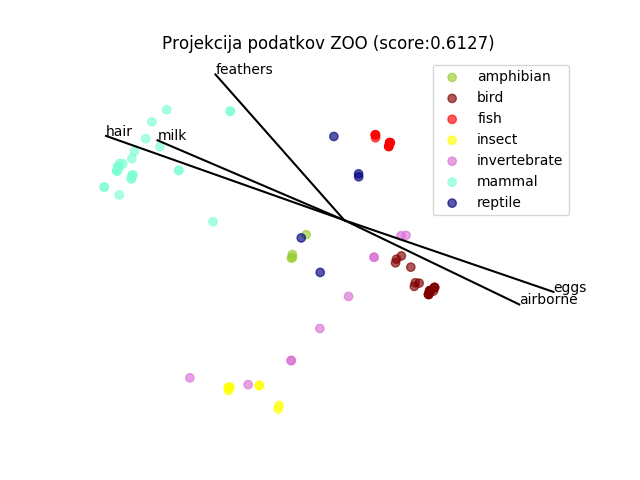
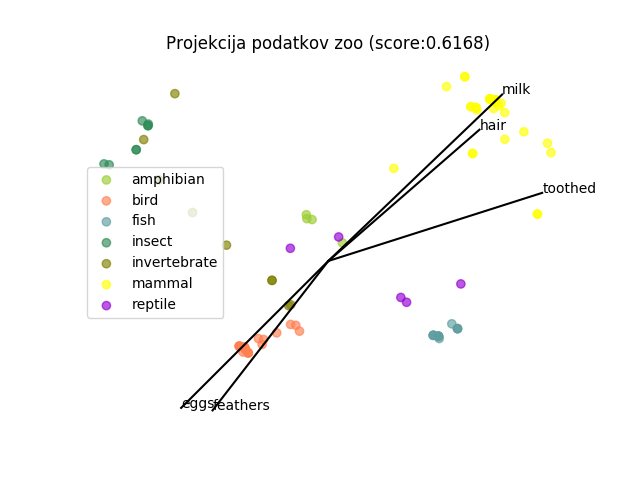
[DN04] Fixed vector names bug

diff --git a/DN04/freeviz.py b/DN04/freeviz.py
@@ -92,7 +92,7 @@ def freeviz(X, y, maxiter=100):
 
         # check convergence
         print('--> sum(G): ', diff)
-        if diff < 0.003:
+        if diff < 0.003 and iter > 400:
             print('Converged at iteration: ', iter)
             convergence = True
         else:
@@ -160,7 +160,7 @@ def plot(X, Y, A, classnames=None, attributes=None, max_attr=5, title=None):
             if i < max_attr:
                 idx = vecs_idx[i]
                 plt.plot([0, A[idx, 0]], [0, A[idx, 1]], 'k-')
-                plt.text(A[idx, 0], A[idx, 1], a)
+                plt.text(A[idx, 0], A[idx, 1], attributes[idx])
 
     ax.legend()
     ax.grid(False)
@@ -199,7 +199,7 @@ def evaluate_projection(P, y):
 if __name__ == '__main__':
     import Orange
 
-    name = 'zoo'
+    name = 'mnist-1k'
     data = Orange.data.Table(name)
     data = Orange.preprocess.Normalize()(data)
     X, y = data.X, data.Y
